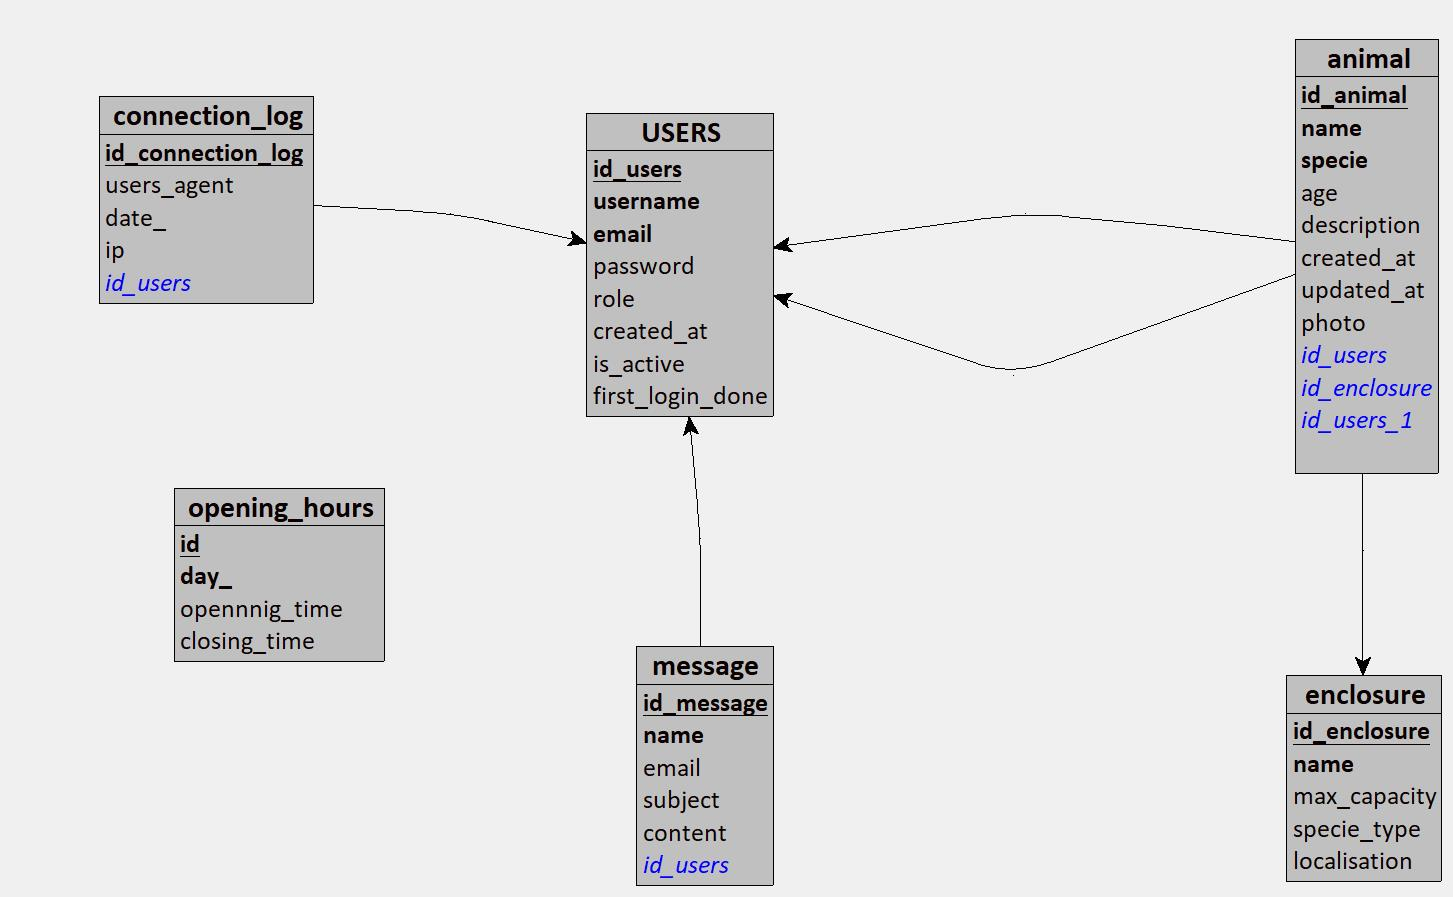
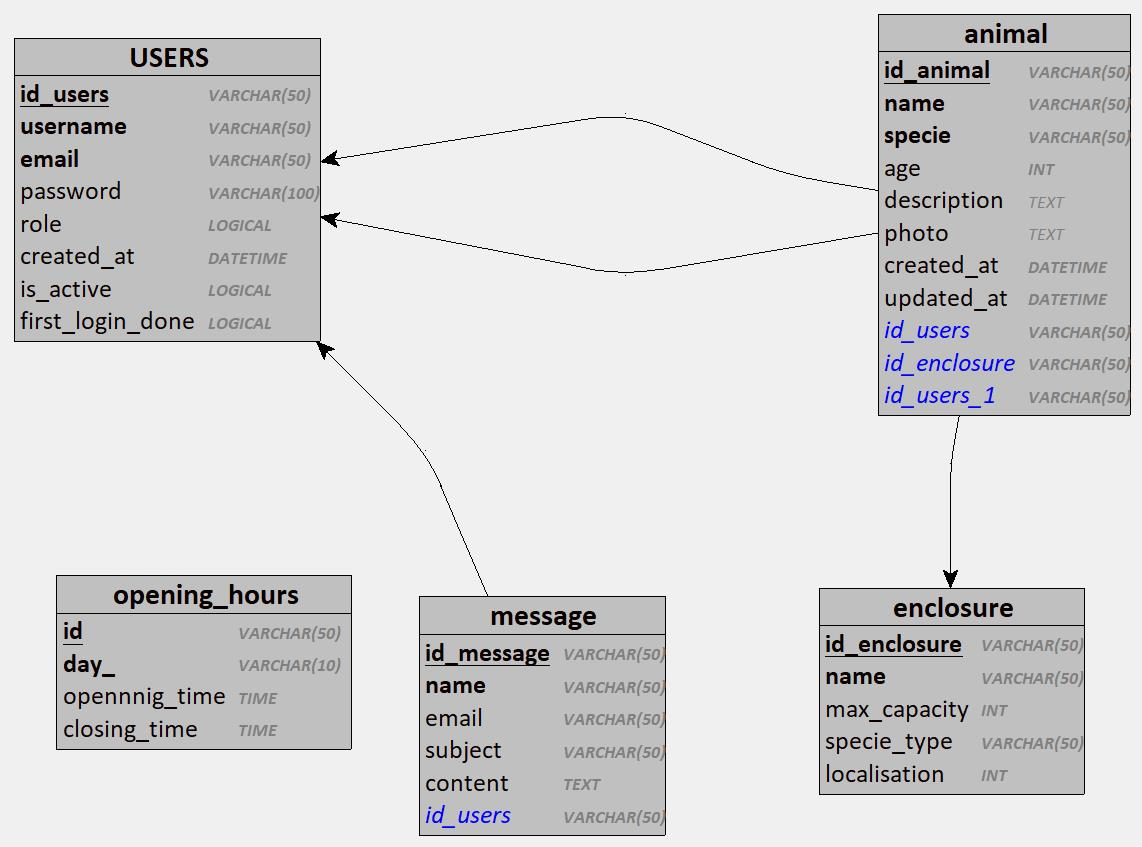
update merise

diff --git a/zoo_symfony/src/Controller/Admin/UsersCrudController.php b/zoo_symfony/src/Controller/Admin/UsersCrudController.php
@@ -98,10 +98,7 @@ class UsersCrudController extends AbstractCrudController
             IdField::new('id', 'ID')->setFormTypeOption('disabled',$pageName),
             TextField::new('username', 'Nom d’utilisateur'),
             EmailField::new('email', 'Email'),
-            TextField::new('password', 'Mot de passe')
-            ->hideOnIndex(), 
-            
-
+            TextField::new('password', 'Mot de passe')->hideOnIndex(),
             ArrayField::new('roles', 'Rôles'),
             DateTimeField::new('createdAt', 'Date de création')->hideOnForm(), 
             BooleanField::new('isActive', 'Actif'),

diff --git a/docs/merise/README.md b/docs/merise/README.md
@@ -46,7 +46,7 @@
 
 - ADMIN : accès total.
 
-- EMPLOYE : accès aux animaux, messages, modification de son mot de passe.
+- EMPLOYE : acecès à tout sauf à la modification user.
 
 17. L’interface d’administration est accessible uniquement aux administrateurs (/admin).
 
@@ -54,7 +54,7 @@
 
 18. Un animal est identifié de manière unique par un id.
 
-19. Chaque animal possède un nom, une espèce, un âge, une description, une photo (optionnelle), et un statut (adopté, disponible, etc.).
+19. Chaque animal possède un nom, une espèce, un âge, une description, une photo .
 
 20. Les animaux peuvent être consultés publiquement (même par des visiteurs).
 
@@ -75,7 +75,7 @@
 27. Seuls les employés et administrateurs peuvent lire et répondre aux messages.
 
 ### 🔒 Sécurité et données sensibles
-28. Le mot de passe ne doit jamais être stocké en clair. Il est haché à l’aide de bcrypt, et seul le hachage est stocké dans la base de données.
+28. Le mot de passe ne doit jamais être stocké en clair. Il est haché à l’aide de ARgon2id, et seul le hachage est stocké dans la base de données.
 
 
 29. Les utilisateurs doivent être automatiquement déconnectés après une période d’inactivité définie (ex. : 30 minutes).
@@ -158,15 +158,6 @@ contenu	|TEXT	|non nul	|Corps du message
 date_envoi	|TIMESTAMP|	auto-généré	|Date d’envoi
 lu_par|	FOREIGN KEY|	vers Utilisateur(id), null par défaut	|Employé qui a lu ou répondu
 
-5. Journal de Connexions
-
-| Nom du champ|	Type |   Contraintes |   Description |
-|--------------|----------|--------------------|-------------|
-id	|UUID / SERIAL|	PK, unique, non nul	|Identifiant
-user_id	|FOREIGN KEY	|vers Utilisateur(id)	|Utilisateur connecté
-date_connexion|	TIMESTAMP|	auto-généré|	Date/heure de connexion
-adresse_ip|	VARCHAR(50)|	optionnel	|Adresse IP
-user_agent	|TEXT	|optionnel|	Informations sur le navigateur
 
 
 6. HORAIRES_ZOO 
